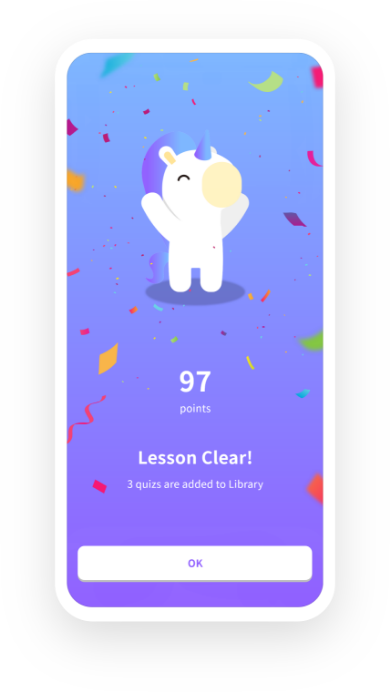
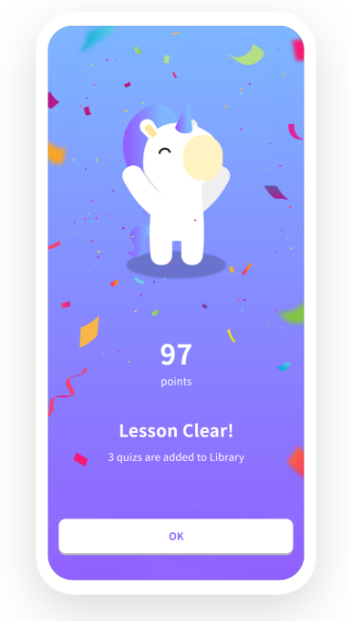
feat: Add CSS Media query on section1

diff --git a/style.css b/style.css
@@ -9,6 +9,7 @@
 body {
   font-family: "yg-jalnan";
   height: 100%;
+  margin: 0;
 }
 
 .header-bar {
@@ -34,11 +35,17 @@ body {
 
   /* header */
   .header-bar {
-    padding: 5px 0;
+    padding: 5px 5px 0 5px;
+  }
+  .header-bar__logo {
+    width: 20%;
   }
   .header-bar__btn {
-    width: 5em;
-    height: 2.5em;
+    display: flex;
+    justify-content: center;
+    align-items: center;
+    width: 3em;
+    height: 2em;
     border: none;
     border-radius: 10px;
     outline: none;
@@ -50,6 +57,9 @@ body {
   .header-bar__btn > p {
     display: none;
   }
+  .book-icon {
+    width: 80%;
+  }
   /* Section 1 */
   .content {
     display: flex;
@@ -58,31 +68,34 @@ body {
   }
   #main p {
     margin: 0;
+    font-size: 0.8rem;
     color: #757575;
     font-family: "Noto Sans", sans-serif;
   }
   h2 {
-    text-align: center;
     margin: 0;
+    font-size: 1.2rem;
     color: #9160ff;
+    text-align: center;
   }
   h3 {
-    margin-top: 1em;
+    margin-top: 0.5em;
+    font-size: 0.9rem;
     color: #333333;
   }
   .content-imgs {
     display: flex;
     justify-content: center;
-    width: 60%;
+    width: 50%;
   }
   .play-store__btn {
-    width: 70%;
+    width: 60%;
     margin-right: 1em;
   }
   .app-store__btn {
-    width: 70%;
+    width: 60%;
   }
   .phone {
-    width: 90%;
+    width: 65%;
   }
 }
